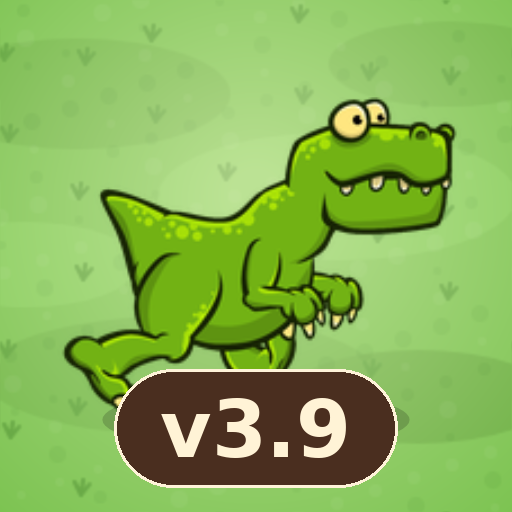
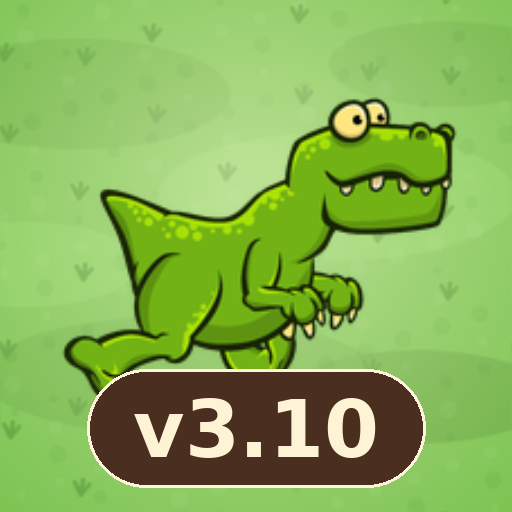
v3.10: Tilt Maze instructions match the device
- Controls already switched correctly (desktop = arrow keys/WASD,
  touch = gyroscope); only the on-screen words were wrong.
- New single helper tiltCtrlWords() drives BOTH the mini-game offer
  card and the in-game footer off the same touch check that routes
  the controls, so the instructions can never disagree with the
  actual input method.
- Desktop now reads "Use the ARROW KEYS (or WASD)"; tablet/phone
  reads "TILT your tablet or phone". Old offer card always said
  "TILT your tablet" even on a laptop.
- Icons rebadged v3.10.

Changed region(s): [[0.1562, 0.7188, 0.8438, 0.9688]]

diff --git a/index.html b/index.html
@@ -3,7 +3,7 @@
 <head>
 <meta charset="UTF-8">
 <meta name="viewport" content="width=device-width, initial-scale=1.0, maximum-scale=1.0, user-scalable=no">
-<title>Dino Survival v3.9</title>
+<title>Dino Survival v3.10</title>
 <link rel="manifest" href="manifest.webmanifest">
 <meta name="theme-color" content="#79c14e">
 <link rel="apple-touch-icon" href="icon-192.png">
@@ -157,7 +157,7 @@
 <!-- DINO SELECT -->
 <div id="scrSelect" class="overlay">
   <div class="panel">
-    <h1>🦖 DINO SURVIVAL <span style="font-size:14px;color:#8a6a50">v3.9</span></h1>
+    <h1>🦖 DINO SURVIVAL <span style="font-size:14px;color:#8a6a50">v3.10</span></h1>
     <p class="sub" id="selectSub">Pick your dinosaur and start playing!</p>
     <div id="diffRow" style="display:flex;gap:8px;justify-content:center;margin:2px 0 10px;flex-wrap:wrap">
       <button class="btn small gray diffbtn" data-diff="beginner">🐣 Beginner</button>
@@ -1244,6 +1244,9 @@ function drawMarble(){
 let tilt=null;
 /* v3.2: Tilt Maze is tilt-only. Sensor blocked -> Marble Race substitutes for the session. */
 let tiltBlocked=false;
+/* v3.10: one source of truth for tilt-maze controls so the words always match the device */
+function tiltIsTouch(){return ('ontouchstart' in window)||(navigator.maxTouchPoints>0);}
+function tiltCtrlWords(){return tiltIsTouch()?'TILT your tablet or phone':'Use the ARROW KEYS (or WASD)';}
 const tiltSensor={on:false,base:null,tx:0,ty:0,seen:false};
 function tiltHandler(e){
   if(e.gamma==null&&e.beta==null)return;
@@ -1387,7 +1390,7 @@ function drawTilt(){
   ctx.fillStyle='#fff7e0';ctx.font='700 20px Fredoka,sans-serif';ctx.textAlign='center';
   ctx.fillText('🕳️ TILT MAZE  ⏱️'+Math.ceil(Math.max(0,T2.time-T2.t))+'s   Marbles: '+T2.balls,W/2,40);
   ctx.font='600 13px Fredoka,sans-serif';ctx.fillStyle='rgba(255,247,224,.85)';
-  ctx.fillText((tiltSensor.on?'TILT your tablet':'Arrow keys')+' to roll the marble to the green pad!',W/2,H-10);
+  ctx.fillText(tiltCtrlWords()+' to roll the marble to the green pad!',W/2,H-10);
 }
 
 /* ============ QUEST / FLOW ============ */
@@ -1420,7 +1423,7 @@ function openMiniOffer(){
     {id:'spin',emo:'🎰',text:'Lucky Spin! ONE spin for 1 point. Match 3 for a +25 jackpot!'},
     {id:'runner',emo:'🏃',text:'Dino Run! JUMP over rocks and cactus, grab eggs, and stay ahead of the raptor!'},
     {id:'marble',emo:'🏁',text:'Marble Race! Bet 2 points on a dino marble dropping through the pegs. Winner gets +10!'},
-    {id:'tilt',emo:'🕳️',text:'Tilt Maze! TILT your tablet to roll the marble to the green pad and dodge the holes!'}
+    {id:'tilt',emo:'🕳️',text:'Tilt Maze! '+tiltCtrlWords()+' to roll the marble to the green pad and dodge the holes!'}
   ];
   const pool=tiltBlocked?games.filter(g2=>g2.id!=='tilt'):games;
   pendingMini=pool[Math.floor(rand(0,pool.length))];

diff --git a/sw.js b/sw.js
@@ -1,4 +1,4 @@
-const C='dino-survival-v39';
+const C='dino-survival-v310';
 const CORE=['./','./index.html','./manifest.webmanifest','./icon-192.png','./icon-512.png'];
 self.addEventListener('install',e=>{
   e.waitUntil(caches.open(C).then(c=>c.addAll(CORE)));